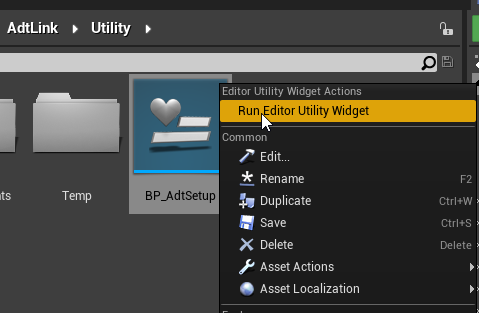
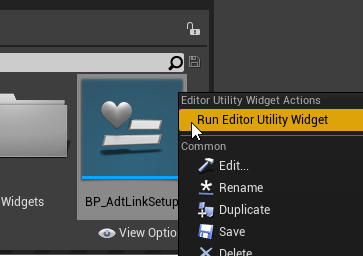
Updated documention
Fixing links, creating more clarity, adding content about Room relationships.

diff --git a/docs/adt-link-plugin-ue.md b/docs/adt-link-plugin-ue.md
@@ -3,28 +3,32 @@
 
 This guide walks you through the installation and setup of the ADT Link for Unreal Engine plugin in combination with the sample project. The plugin can be used in any project, but following this guide will be extremely beneficial for understanding how the plugin relates to resources in Azure. By the end of this document you will have a sample scene of the WSP office building connected to an Azure Digital Twins instance. Virtual sensors will exist in both environments and will stay in sync once the sensor data is activated in a later stage.
 
+There is a pre-compiled demo using this sample content available for download [here](https://epicgames.box.com/s/0zumrf4zf5bzdtbe5ck99uppj5rucz2p). This is the end result you should expect after walking through the steps outlined below.
+
 ## Installing the Plugin and Project
 
 ### The Plugin
 
-The ADT Link for Unreal plugin is the main piece of technology driving this digital twin experience. If you don't already have it, you'll need to download it from the Unreal Engine Marketplace [here](). Once you add it to your account, you must "Install to Engine", selecting either 4.26 or 4.27.  It can be enabled in any project to connect the scene with a live ADT instance in the cloud. The main components of this plugin are:
+The "ADTLink for Unreal Engine" plugin is the main piece of technology driving this digital twin experience. If you don't already have it, you'll need to download it from the Unreal Engine Marketplace [here](https://www.unrealengine.com/marketplace/en-US/product/adtlink-for-unreal-engine). Once you add it to your account, you must "Install to Engine", selecting either 4.26 or 4.27.  It can be enabled in any project to connect the scene with a live ADT instance in the cloud. The main components of this plugin are:
 
 1. The ability to send twin model data into ADT and subscribe to a SignalR feed.
 2. An editor utility widget that guides the user through the management of the digital twin.
 
-[IMAGE HERE}
+![](..\media\adt-link-plugin-ue\MarketplacePlugin.png)
 
 ### The Project
 
-For the sample project, you can get it for free on the Unreal Engine Marketplace [here](). Once it is added to your account, you must "Create Project" and then open it either from your Library in the Launcher, or from the folder directory. The sample project relies on the plugin being installed to your engine, so make sure you complete that step first before opening it.
+For the sample project, you can get it for free on the Unreal Engine Marketplace [here](https://www.unrealengine.com/marketplace/en-US/product/adtlink-for-unreal-engine-sample). Once it is added to your account, you must "Create Project" and then open it either from your Library in the Launcher, or from the folder directory. The sample project relies on the plugin being installed to your engine, so make sure you complete that step first before opening it.
 
 To showcase the general workflow and capabilities, the sample project uses the ADT Link plugin to connect to the live ADT sensors that you set up [in the previous step](./deploy-azure-resources.md).  The project contains the following components that you can dig into and explore:
 
 1. A high resolution point cloud of the WSP office
-2. A Datasmith model of the WSP office, for reference
+2. An imported Datasmith model of the WSP office, for reference
 3. A sleek UMG-based UI for navigating the scene and reading live data
 4. Particle effects and character animations for certain data types
 5. Examples of custom device models
+
+![](..\media\adt-link-plugin-ue\MarketplaceSample.png)
 
 # Setting Up a Digital Twin - The Sample Project
 
@@ -32,16 +36,17 @@ Open the sample project. We provide a sample level that already has a Datasmith 
 
 ![AdtLink_Content](../media/adt-link-plugin-ue/AdtLink_Content.png "AdtLink_Content")
 
-It's called "SampleLevel" and is located in AdtLink Content/WspOfficeDemo/Level. Double-click to open it.
+It's called "SampleLevel" and is located in Content/WspOfficeDemo/Level. Double-click to open it.
 
 ![StartupLevel](../media/adt-link-plugin-ue/StartupLevel.png "StartupLevel")
+
 ![StartupLevel_View](../media/adt-link-plugin-ue/StartupLevel_View.png "StartupLevel_View")
 
 ## Connecting to Azure Digital Twin
 
 Accessing live data and devices from ADT is all handled through the AdtLink plugin, but the initial connection and sensor setup must be configured. Luckily we provide a utility with the plugin that will help you do this.
 
-You’ll find a Blueprint utility called “BP_AdtSetup” in the AdtLink Content/AdtLink/Utilities folder. Right click on this widget blueprint and select Run Editor Utility Widget. A user interface window will appear on top of the editor.
+You’ll find a Blueprint utility called “BP_AdtLinkSetup” in the AdtLink Content/AdtLink/Utilities folder. Right click on this widget blueprint and select Run Editor Utility Widget. A user interface window will appear on top of the editor.
 
 ![AdtLink_Utility_Run](../media/adt-link-plugin-ue/AdtLink_Utility_Run.png "AdtLink_Utility_Run")
 
@@ -122,7 +127,7 @@ From /AdtLink/ModelBP/**REC**/...:
 2. BP_Capability
 3. BP_Sensor
 
-From /AdtLink/WspOfficeDemo/Blueprint/**RECExtended**/...:
+From /Content/WspOfficeDemo/Blueprint/**RECExtended**/...:
 
 4. BP_WspHvacSensor
 5. BP_WspLightingSensor
@@ -142,11 +147,11 @@ There are two ways to create twins:
 
 For this example project we will only be focusing on the first option. The Datasmith model that exists in the StarterLevel contains a few meshes with ADT-specific metadata for “ModelID” and “TwinID” that were originally defined in Revit.
 
-In the Create Twin window, there is a button for “Find Twins in DS”. Clicking on this will detect any twins present in our scene and should populate the list with the various Twin IDs and their Model IDs. The utility also associates them with the appropriate ModelBP’s we uploaded earlier. You can change the Model ID to a different type if there’s ever an error.
+In the Create Twin window, there is a button for “Find Twins in DS”. Clicking on this will detect any twins present in our scene and should populate the list with the various Twin IDs and their Model IDs. The utility also associates them with the appropriate ModelBP’s we uploaded earlier. You can change the Model ID or Twin ID to a different type if there’s ever an error.
 
 ![Utility_FindTwins](../media/adt-link-plugin-ue/Utility_FindTwins.png "Utility_FindTwins")
 
-Now that they are detected and valid, we will create new Blueprint Actors in our scene for each one. Click the “Select” button to highlight all the Twins You can also select or deselect by clicking on the Model BP column.
+Now that they are detected and valid, we will create new Blueprint Actors in our scene for each one. Click the “Select All” button to highlight all the Twins. You can also select or deselect by clicking on each model individually.
 
 ![Utility_SelectTwins](../media/adt-link-plugin-ue/Utility_SelectTwins.png "Utility_SelectTwins")
 
@@ -164,13 +169,55 @@ If these twins need editing for any reason, there is an “Edit Twin” window b
 
 ![Utility_EditTwinProperties](../media/adt-link-plugin-ue/Utility_EditTwinProperties.png "Utility_EditTwinProperties")
 
-## Next Steps
+## Room Sizes and Relationships
+
+The sample scene contains a model type for "Room" which has twins throughout the scene like ConferenceRoom, MediumWorkspace, LargeWorkspace, etc. These room twins contain various sensors within them, but the relationships and 3D bounds weren't automatically established through the setup utility. Let's do that now.
+
+### Resizing a Room
+
+First, we're going to resize the room "devices" that were spawned. This is important for the visual effects in the final app. Select a room. You will see that each room is attached to a mesh of the floor. 
+
+![](D:\Documents\Unreal Projects\AzureDigitalTwin\unrealdemo\media\adt-link-plugin-ue\RoomSelect.png)
+
+![](D:\Documents\Unreal Projects\AzureDigitalTwin\unrealdemo\media\adt-link-plugin-ue\RoomSelected.png)
+
+There is a custom function called "Set Parent Size" in the "Space" section of each actor's details that will scale it to the proportions of the floor mesh. Click this button.
+
+![](D:\Documents\Unreal Projects\AzureDigitalTwin\unrealdemo\media\adt-link-plugin-ue\RoomSize.png)
+
+![](D:\Documents\Unreal Projects\AzureDigitalTwin\unrealdemo\media\adt-link-plugin-ue\RoomResized.png)
+
+To set the height, change the Z value in the Size parameter or drag the blue diamond gizmo hovering in the corner. You will need to click "Update Size" to finalize the new shape and bounds. Then, click the button for "Update Cube Size". This will propagate the room dimensions to the mesh used for colored visuals in the final app. 
+
+![](D:\Documents\Unreal Projects\AzureDigitalTwin\unrealdemo\media\adt-link-plugin-ue\RoomCube.png)
+
+Repeat this for the other rooms in the scene. 
+
+### Establishing Relationships
+
+To tell ADT that certain rooms contain certain devices, we need to do a little work back in the AdtLinkSetup Utility widget we previously launched. Go to the Edit Twin tab and click the Edit button next to your room of choice.
+
+![](D:\Documents\Unreal Projects\AzureDigitalTwin\unrealdemo\media\adt-link-plugin-ue\RoomEdit.png)
+
+There is a section in the lower half of the window called "Create Relationships." Use the first dropdown box to select the type of relationship we're establishing, which is "hasCapability" in this case. Click the "Select Overlapping" button to precisely grab only the twins that are inside our resized room. Then press "Add Selected" to create a new relationship with those twins. 
+
+![](D:\Documents\Unreal Projects\AzureDigitalTwin\unrealdemo\media\adt-link-plugin-ue\RoomRelationship.png)
+
+Now those active relationships should appear in the section above. You can always add or remove relationships at any time, and they will propagate up to your ADT instance as well. 
+
+![](D:\Documents\Unreal Projects\AzureDigitalTwin\unrealdemo\media\adt-link-plugin-ue\RoomActiveRel.png)
+
+Repeat this with any remaining rooms.
+
+## Next Steps - Simulating Devices
 
 If everything was successful, you should now have a level with the WSP office and a handful of sensor Blueprints with a valid connection to Azure Digital Twins. However, the data coming from our ADT instance is currently static and relatively meaningless. To emulate live sensors and visualize their effects in UE, you'll move on to the next step and set up [Mock Devices.](./simulate-iot-devices.md)
 
 ## Continue In Your Own Project
 
-Once you're comfortable with the sample project, you can use the ADT Link plugin in any UE project of your own. We recommend starting a project from the "Architecure, Engineering, and Construction" category. With your project open, enable the ADT Link plugin by going to Edit > Plugins and searching for it. Also verify that the Datasmith plugin is enabled. If you're deriving your project from the sample dataset, you'll also need the LiDAR Point Cloud plugin and Sun Position Calculator plugin. This may require a restart for your project.
+### Enable the plugin 
+
+Once you're comfortable with the sample project, you can use the ADT Link plugin in any UE project of your own. We recommend starting a project from the "Architecture, Engineering, and Construction" category. With your project open, enable the ADT Link plugin by going to Edit > Plugins and searching for it. Also verify that the Datasmith plugin is enabled. If you're deriving your project from the sample dataset, you'll also need the LiDAR Point Cloud plugin and Sun Position Calculator plugin. This may require a restart for your project.
 
 ![EditPlugins](../media/adt-link-plugin-ue/EditPlugins.png "Edit Plugins")
 
@@ -181,3 +228,14 @@ Once you're comfortable with the sample project, you can use the ADT Link plugin
 ![LidarPlugin](../media/adt-link-plugin-ue/LidarPlugin.png "LidarPlugin")
 
 ![SunPosition_Plugin](../media/adt-link-plugin-ue/SunPosition_Plugin.png "SunPositionPlugin")
+
+### Building Your Own Content
+
+To define your own custom models for your sensors or other twins, follow [this guide](./create-custom-models.md).
+
+To prepare your CAD model for automatic twin placement during setup, follow [this guide](./preparing-cad-models).
+
+### Connecting to ADT
+
+In order to leverage this plugin you will need to set up Azure resources as outlined [in this documentation](./deploy-azure-resources) and use the generated configuration file; at this time it is not plug-and-play with any existing ADT instance. If you need to customize the various Azure resources for your unique situation, the deployment source code is available on this repo.
+

diff --git a/README.md b/README.md
@@ -1,12 +1,12 @@
 # Unreal Engine and Azure Digital Twins integration demo
 
- The ADT Link plugin and this sample content was developed by WSP in collaboration with Microsoft and Epic Games in order to demonstrate how to integrate [Azure Digital Twins (ADT)](https://docs.microsoft.com/en-us/azure/digital-twins/overview) with the [Unreal Engine](https://www.unrealengine.com/). This sample shows you the "backstage" of the downloadable and playable demo hosted [here]. If you just want to see a playable sample of the integration, feel free to walk through that demo. If you want to know how it works and recreate it, read on.
+ The ADT Link plugin and this sample content was developed by WSP in collaboration with Microsoft and Epic Games in order to demonstrate how to integrate [Azure Digital Twins (ADT)](https://docs.microsoft.com/en-us/azure/digital-twins/overview) with the [Unreal Engine](https://www.unrealengine.com/). This sample shows you the "backstage" of the downloadable and playable demo hosted [here](https://epicgames.box.com/s/0zumrf4zf5bzdtbe5ck99uppj5rucz2p). If you just want to see a playable sample of the integration, feel free to walk through that demo. If you want to know how it works and recreate it, read on.
 
 In this sample, you will:
 
-* establish a building model in Unreal Engine,
-* use the ADT Link plugin to model sensors of various types in the building
-* push those sensors and their hierarchy in the building to an ADT model and twin graph
+* deploy the proper Azure resources for IoT Hub and ADT.
+* use the ADT Link plugin to define sensors of various types in a sample building
+* push those sensors and their relationships to an ADT model and twin graph
 * hook up simulated versions of those sensors to the Azure IoT Hub and use that data to update the twins with the latest readings
 * tour the building virtually and see the sensor data changing in real time
 
@@ -16,17 +16,17 @@ A high level architecture of the sample is shown below.
 
 ### What It Does
 
-This documentation will get you set up with an example scene of a WSP office building digital twin, with pre-determined sensors and settings.
+This documentation will get you set up with an example scene of a WSP office building digital twin, with pre-determined sensors and settings. Going through the sample will inform you how to replicate the results with your own digital twin or IoT sensors.
 
 ### What It Does Not Do
 
-This documentation will not show you how to configure bespoke sensors and settings for your own digital twin. The backbone is there, but this workflow is not polished yet. If attempting this, support may be limited.
+At this time, the ADTLink plugin is primarily intended to assist with the creation and publishing of an ADT digital twin. If you already have an operational ADT solution, this will not be plug-and-play. Through this guide you will learn how to define your own models, but support may be limited.
 
 ## Prerequisites
 
 To start the process of deploying the demo, you must first work through a few pre-requisites.
 
-### Azure Resources and simulated IoT devices
+### Azure Resources and Simulated IoT Devices
 
 * To deploy the Azure resources, you must have an active Azure subscription in which you have owner permissions. If you do not have an Azure subscription, you can sign up for a free account [here](https://azure.microsoft.com/en-us/free/)
 * A [PowerShell Azure Cloud Shell](https://docs.microsoft.com/en-us/azure/cloud-shell/quickstart-powershell)
@@ -34,20 +34,20 @@ To start the process of deploying the demo, you must first work through a few pr
 
 ### Unreal Engine Prerequisites
 
-* The ADT Link plugin and its sample content are designed for UE 4.26.
+* The ADT Link plugin and its sample content are designed for UE 4.26 or 4.27.
 
 With the pre-requisites installed, you are ready to begin work on the demo
 
 ## Deploy Azure Infrastructure
 
-As the focus of this demo is primarily on the integration, we've automated most of the setup of the Azure components of the solution. If you want to better understand the components involved on the Azure side, you can walk through the hands-on labs and MS Learn modules.
+As the focus of this sample is primarily on the integration, we've automated most of the setup of the Azure components of the solution. If you want to better understand the components involved on the Azure side, you can walk through the hands-on labs and MS Learn modules.
 
 At a high level, the key Azure components are:
 
 * [Azure IoT Hub](https://azure.microsoft.com/en-us/services/iot-hub/) - this is the primary connection point for IoT devices in the Azure cloud. It ingests the telemetry data from our (simulated) IoT sensors.
 * [Azure Digital Twins](https://azure.microsoft.com/en-us/services/digital-twins/) - this is the primary Azure service being demonstrated in this sample. ADT allows you to model the 'real world' and add critical business context, hierarchy, and enriched information to the raw telemetry data ingested from IoT Hub
 * [Azure SignalR Service](https://azure.microsoft.com/en-us/services/signalr-service/) - SignalR is a high scale, high performance pub-sub service hosted in Azure. It allows a sender to submit messages in real time to a large number of simultaneous listening applications. In the sample here, we will only have one listener, but for the playable sample demo, we may have many listening
-* [Azure Time Series Insights](https://azure.microsoft.com/en-us/services/time-series-insights/) - Time Series Insights is a time-series store, query, and dashboarding service. For this solution, we leverage is as the store and rendering mechanism for the historical data graphs for the sensors
+* [Azure Time Series Insights](https://azure.microsoft.com/en-us/services/time-series-insights/) - Time Series Insights is a time-series store, query, and dashboarding service. For this solution, we leverage this as the store and rendering mechanism for the historical data graphs for the sensors
 * [Event Grid](https://azure.microsoft.com/en-us/services/event-grid/) and [Azure Functions](https://docs.microsoft.com/en-us/azure/azure-functions/functions-overview) - these components act as the routing and glue between the major components. Event Grid routes messages to the functions in response to events (telemetry received or twin data updated) and the functions perform message transformation and updating.
 
 To deploy the backend Azure services involved, follow the instructions [here](docs/deploy-azure-resources.md). Note that there is a configuration file that will be generated during this process that you will need to download and keep for the next step.
@@ -62,4 +62,4 @@ The next step is to simulate device data from our building IoT sensors. To set u
 
 ## View results in the Unreal Engine
 
-After following the three guides above, you should end up with a playable office scene that visualizes live data coming from your own Azure Digital Twin.
+After following the three guides above, you should end up with a playable office scene that visualizes live data coming from your own Azure Digital Twin instance. You can then define and deploy your own virtual sensors to customize it to your needs.

diff --git a/docs/create-custom-models.md b/docs/create-custom-models.md
@@ -52,7 +52,24 @@ When a value of the corresponding type is updated, this custom event will be fir
 
 ![ImplementedEvent](../media/create-custom-models/ImplementedEvent.png "ImplementedEvent")
 
+
+
+> NOTE: Not all DTDL schemas are supported by Unreal Engine, so we automatically convert them where possible. These are the supported property types and their conversion:
+
+| DTDL     | Unreal                 |
+| -------- | ---------------------- |
+| Boolean  | Boolean                |
+| DateTime | DateTime               |
+| Date     | DateTime (ignore Time) |
+| Time     | DateTime (ignore Date) |
+| Float    | Float                  |
+| Double   | Float                  |
+| Integer  | Integer                |
+| Long     | Integer                |
+| String   | String                 |
+
 ## Managing Your Custom Models and Twins
-Now that you have an updated model, it's ready to be synced with ADT and instantiated into the world. Follow [these steps] to set it up. If the Model ID and Twin ID are not embedded into your 3D model (see: Preparing CAD Models [todo link]) you will select "Manually Create" in the "Create Twin" tab. This will place it straight into your level or optionally attach it to an existing mesh.
+Now that you have an updated model, it's ready to be synced with ADT and instantiated into the world. Follow [these steps](./adt-link-plugin-ue.md#uploading-the-models) to set it up and upload to ADT. If the Model ID and Twin ID are not embedded into your 3D model (see: [Preparing CAD Models](./preparing-cad-models.md)) you will select "Manually Create" in the "Create Twin" tab. This will place it straight into your level or optionally attach it to an existing actor.
 
 ![ManuallyCreate](../media/create-custom-models/ManuallyCreate.png "ManuallyCreate")
+

diff --git a/docs/preparing-cad-models.md b/docs/preparing-cad-models.md
@@ -2,7 +2,7 @@
 
 If you've gone through the setup of the sample scene, you'll know that the ADTLink plugin can automatically detect and place devices (twins) in your scene based on the contents of your Datasmith file. This quick guide will show you how to prepare your own CAD model with the right metadata before exporting it as a Datasmith file.
 
-We will be using Revit in our example below, but any CAD or BIM software that exports to Datasmith will be similar.  This sample file can be downloaded from GitHub <HERE.>
+We will be using Revit in our example below, but any CAD or BIM software that exports to Datasmith will be similar.  This sample file can be downloaded from GitHub [here](../wsp-office-model/)
 
 ![SampleRevit](../media/preparing-cad-models/SampleRevit.png "SampleRevit")
 
@@ -28,4 +28,5 @@ Now we can export the 3D view from the Datasmith tab and it would be ready for a
 
 ![ViewExport](../media/preparing-cad-models/ViewExport.png "ViewExport")
 
-Inside Unreal, the imported Datasmith mesh should have the relevant metadata embedded in Asset User Data > Datasmith User Data > Metadata
+Inside Unreal, the imported Datasmith mesh should have the relevant metadata embedded in Asset User Data > Datasmith User Data > Metadata. When using the [ADTLinkSetup utility](./adt-link-plugin-ue.md#create-twin), it should find the various twins in your level when using the "Find Twins in DS" functionality.
+

diff --git a/docs/deploy-azure-resources.md b/docs/deploy-azure-resources.md
@@ -2,7 +2,7 @@
 
 This document walks you through steps to deploy the backend Azure resources for the demo.
 
-> NOTE:  this section assumes you have already set up the pre-requisites mentioned on the [home page](/README.md), in particular that you have an Azure Subscription and have set up a PowerShell cloud shell connection.
+> NOTE:  this section assumes you have already set up the pre-requisites mentioned on the [home page](../README.md), in particular that you have an Azure Subscription and have set up a PowerShell cloud shell connection.
 
 ## Clone repository in Cloud Shell
 
@@ -20,7 +20,7 @@ Run the command below to kick off the wizard that will help you deploy the Azure
 > NOTE: The wizard will ask you a few questions that are relevant to the deployment, like desired Azure subscription (in case you have more than one), Azure region and a distinctive name for your project.
 
 ```powershell
-. ./deployment/deploy.ps1
+./deployment/deploy.ps1
 ```
 
 ## Collect output files location
